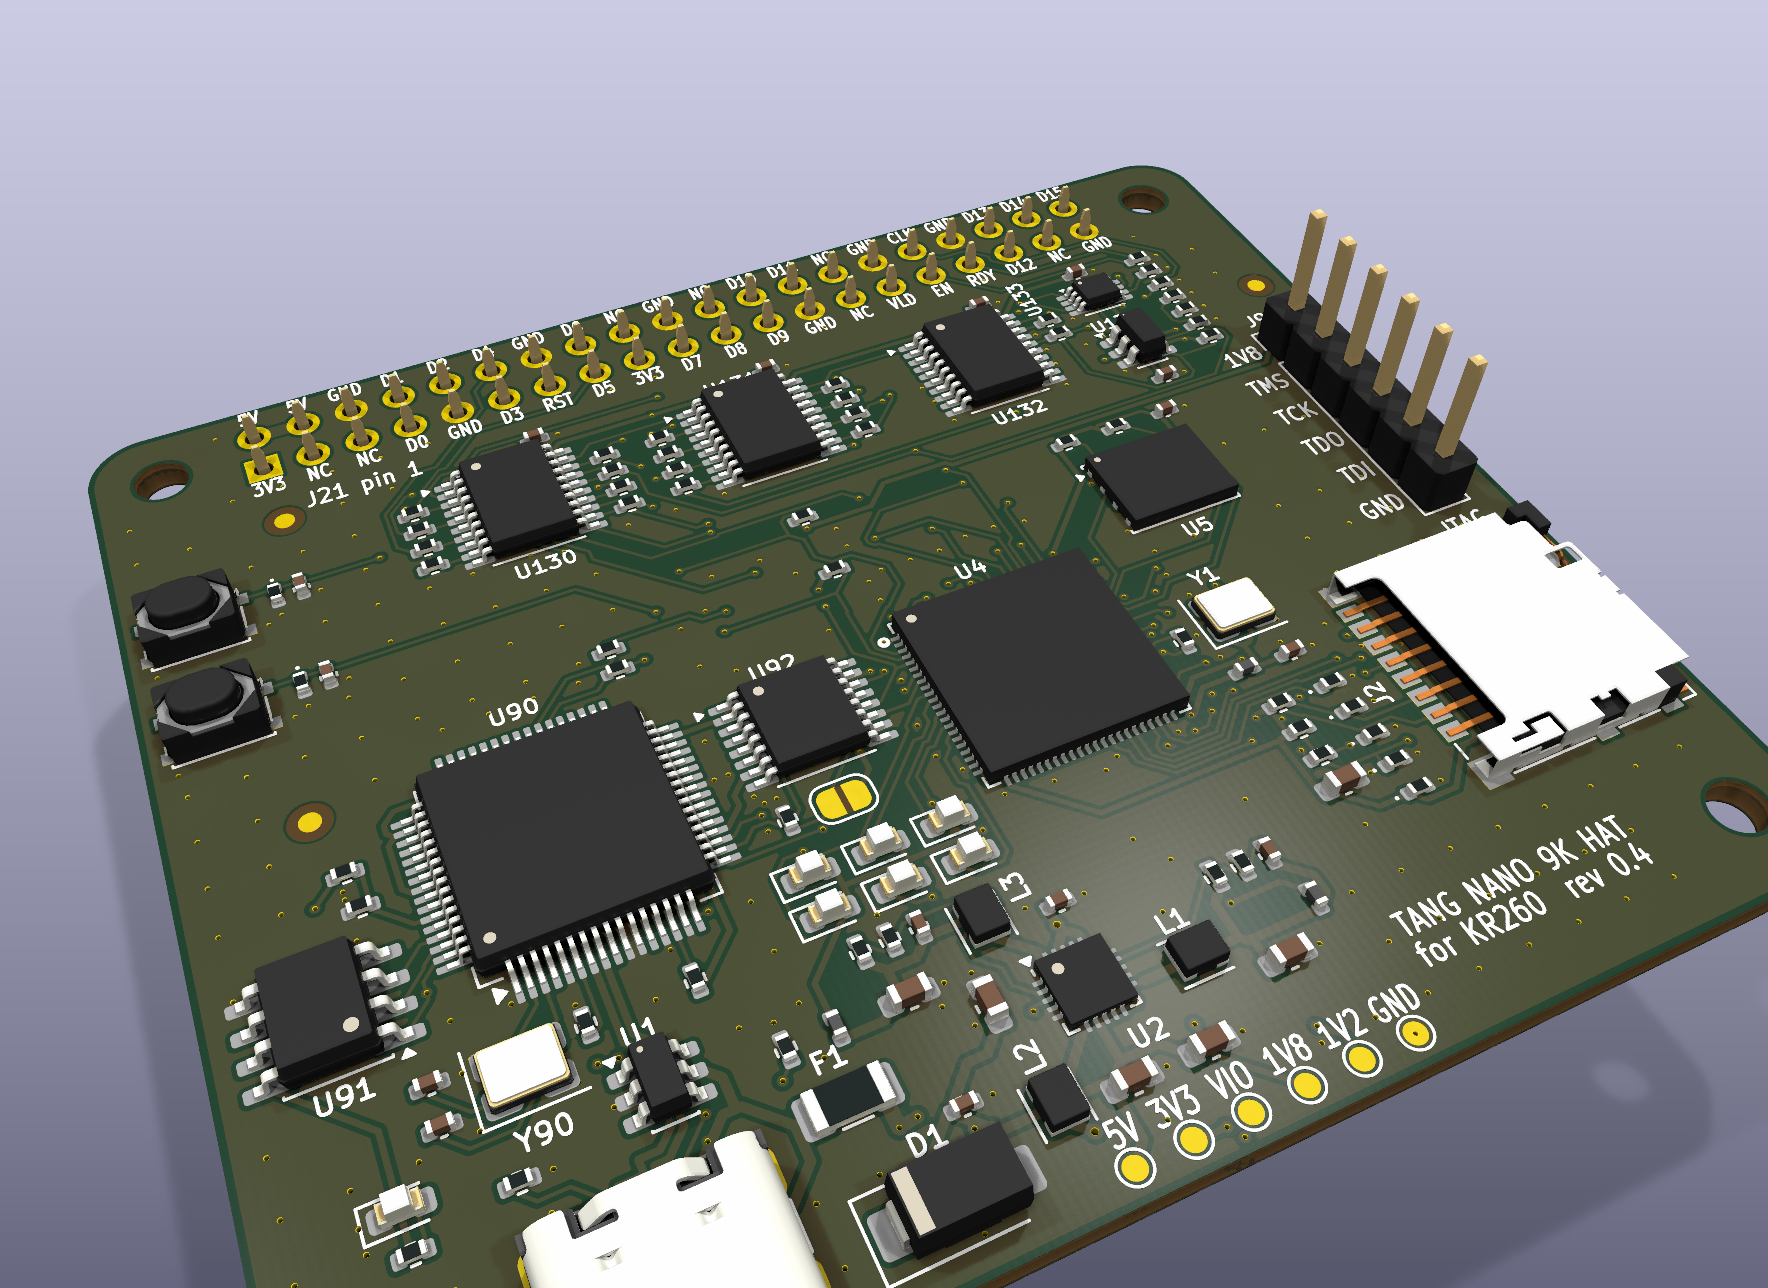
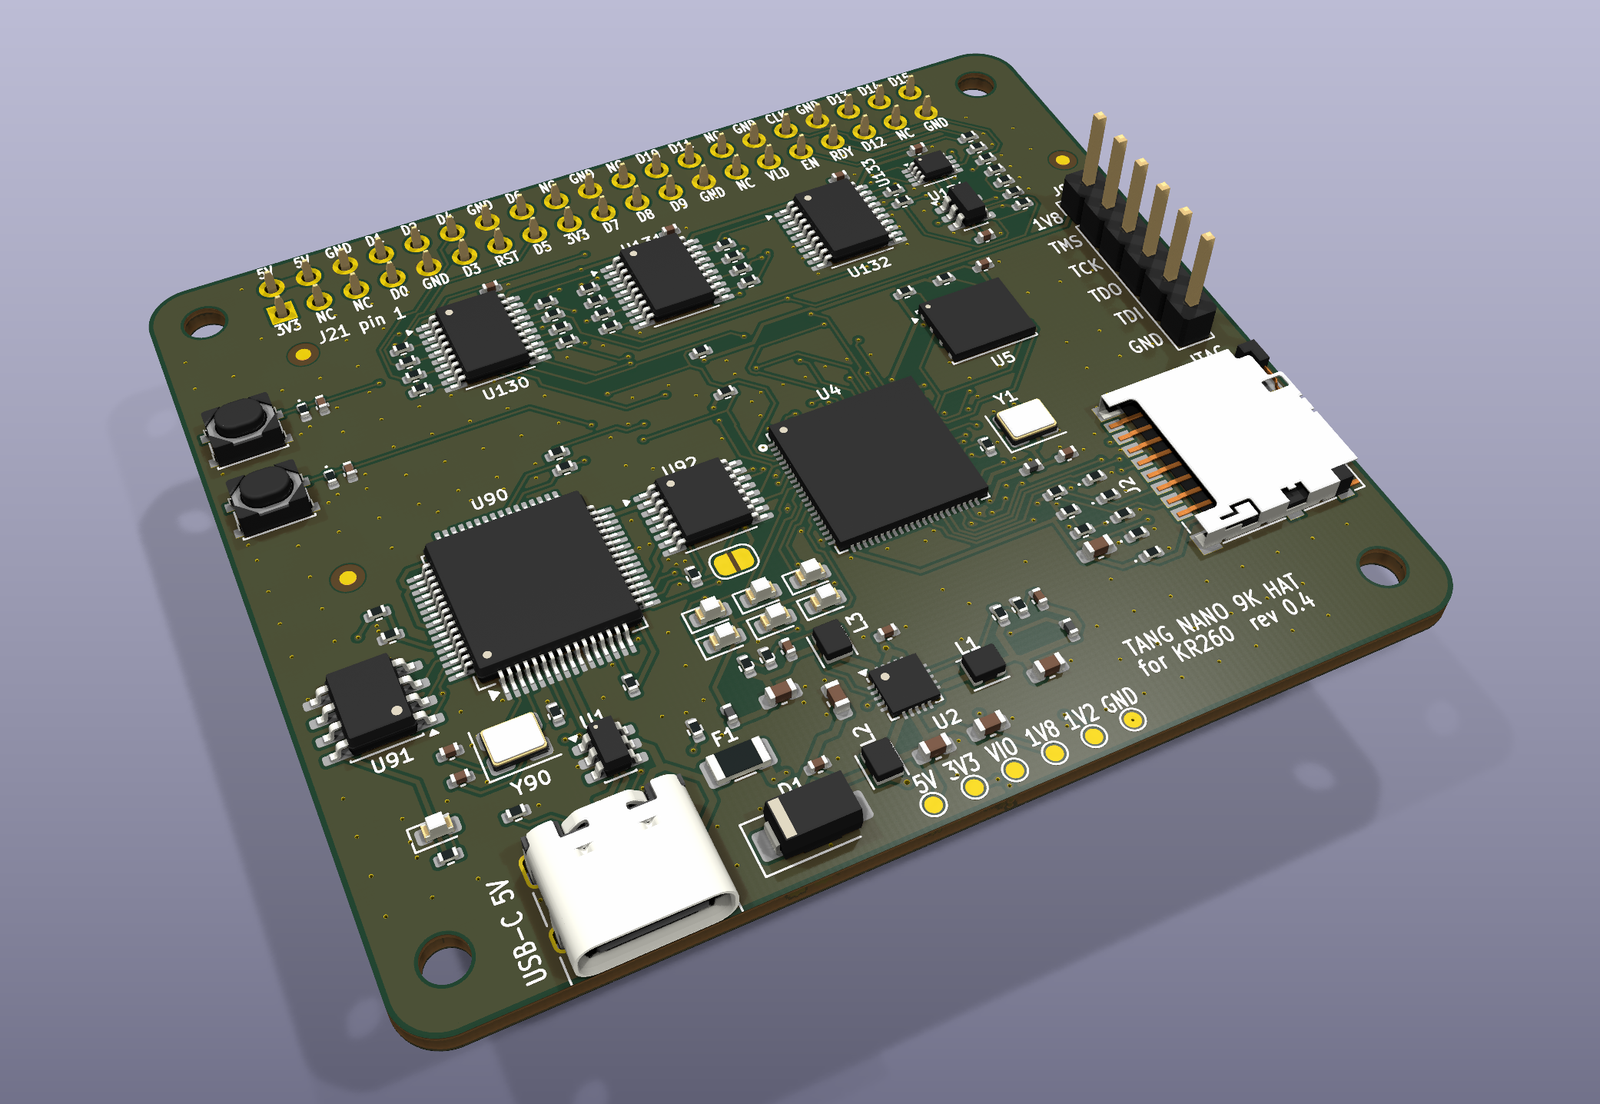
Add board renders to the README and an all-rights-reserved license
- README: 3D render of the top side and plan views of both sides
- hardware/renders: 3D views re-rendered with the whole board in frame
- LICENSE: all rights reserved; published for portfolio and reference

diff --git a/README.md b/README.md
@@ -2,6 +2,16 @@
 
 Hardware, firmware, integration and validation requirements for a custom FPGA board based on the Tang Nano 9K, installed directly on the 40-pin J21 header of the KR260.
 
+<p align="center">
+  <img src="hardware/renders/pcb_iso.png" alt="3D render of the HAT, top side" width="820">
+</p>
+
+| Top | Bottom |
+|:---:|:---:|
+| <img src="hardware/renders/pcb_top.png" alt="Top side, plan view" width="400"> | <img src="hardware/renders/pcb_bottom.png" alt="Bottom side, plan view" width="400"> |
+
+<p align="center"><sub>KiCad 3D renders of board revision 0.4 (65 × 56.5 mm, 4 layers). The board has not been manufactured yet.</sub></p>
+
 | Field | Value |
 |---|---|
 | Document revision | 0.6 — power from the USB-C or from the KR260 J21 5 V (Schottky OR-ing) |
@@ -1035,3 +1045,7 @@ The current scope is a **customized Tang Nano 9K, without Pmods, mounted on the 
 The project will be ready for use when the fit and electrical safety are proven, the preserved functions pass the tests, the link operates according to the protocol under load and backpressure, and the hardware/firmware package results in reproducible builds and measurements.
 
 **Current status: requirements consolidated; J21 → K26 map cross-checked against the KR260 carrier schematic and the K26 SOM XDC (F12, F13) as a document check; preliminary schematic captured and PCB prepared for JLCPCB fabrication and assembly, with a provisional outline (Proposed), powered from the USB-C or from the J21 5 V since rev. 0.6; production files generated for an order, not released; mechanical fit checked only against the KR260 3D model (XTP744, F14), physical fit check Pending; no PCB manufactured, and no full compatibility or link speed proven by this document.**
+
+## License
+
+Copyright © 2026 Gabriel Calper. All rights reserved. The design is published for portfolio and reference purposes; no license is granted to copy, modify or manufacture it. See [LICENSE](LICENSE).
